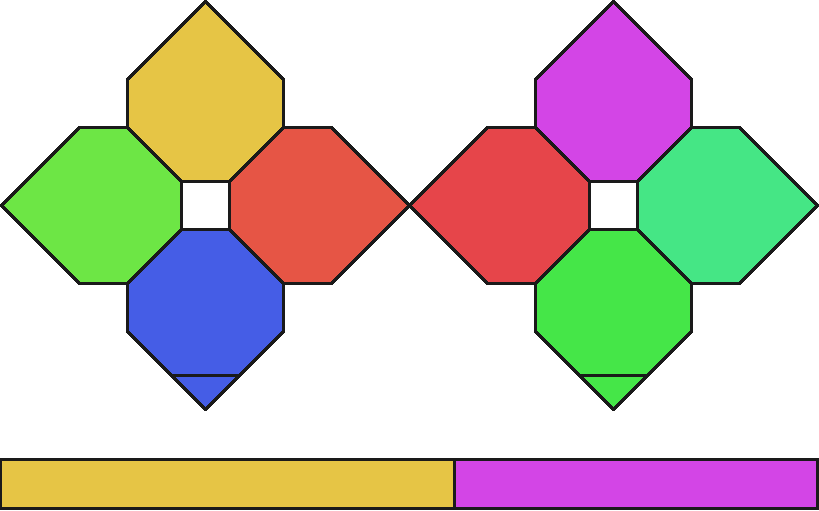
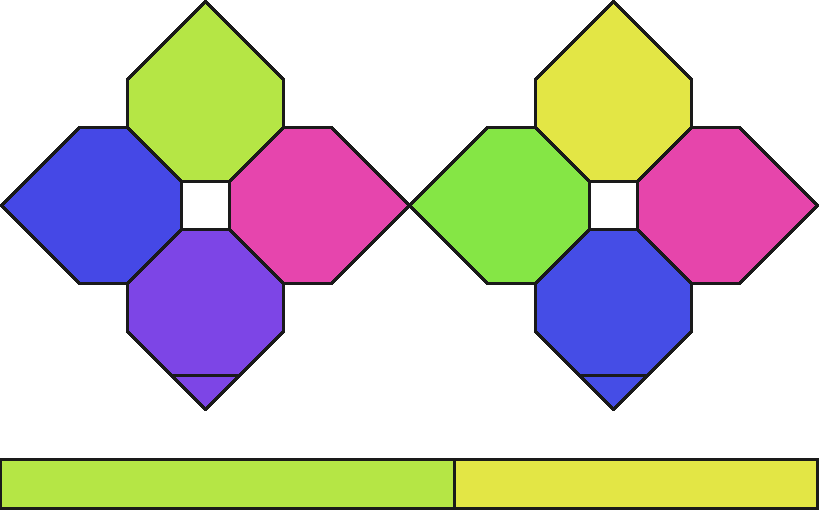
Fixed a lot of bugs

diff --git a/src/main.rs b/src/main.rs
@@ -7,7 +7,6 @@ use little_exif::metadata::Metadata;
 use log::{debug, error, info};
 use moleco::{calculate_scheme, generate_moleco};
 use num::integer::gcd;
-use pretty_env_logger;
 use prettytable::{row, Table};
 use std::fs;
 use std::io::{BufRead, BufReader};
@@ -108,8 +107,8 @@ fn main() {
         } => {
             let picture = generate_moleco(
                 substance.to_string(),
-                base_size.clone(),
-                border_size.clone(),
+                *base_size,
+                *border_size,
                 !skip_version_check,
             );
             match picture {
@@ -143,23 +142,23 @@ fn main() {
                             error!("Only PNG format is supported.");
                             std::process::exit(exitcode::USAGE);
                         }
-                        if file_exists(output_file) && !overwrite {
-                            if !Confirm::new()
+                        if file_exists(output_file)
+                            && !overwrite
+                            && !Confirm::new()
                                 .with_prompt(format!(
                                     "File \"{}\" already exists, overwrite?",
                                     output_file
                                 ))
                                 .interact()
                                 .unwrap()
-                            {
-                                std::process::exit(exitcode::OK);
-                            }
+                        {
+                            std::process::exit(exitcode::OK);
                         }
                         buffer.save(output_file).unwrap();
                         let image_path = std::path::Path::new(output_file);
                         let mut metadata = Metadata::new();
                         metadata.set_tag(ExifTag::ImageDescription(substance.to_string()));
-                        metadata.write_to_file(&image_path).unwrap();
+                        metadata.write_to_file(image_path).unwrap();
                         info!("Image saved as {}", output_file);
                     }
                 }
@@ -177,26 +176,21 @@ fn main() {
             skip_errors,
         } => {
             if let Some(path) = output_file {
-                match format {
-                    Format::Table => {
-                        error!("Output file is not supported for table format.");
-                        std::process::exit(exitcode::USAGE);
-                    }
-                    _ => {}
+                if let Format::Table = format {
+                    error!("Output file is not supported for table format.");
+                    std::process::exit(exitcode::USAGE);
                 }
 
-                if file_exists(path) {
-                    if !Confirm::new()
+                if file_exists(path)
+                    && !Confirm::new()
                         .with_prompt(format!("File \"{}\" already exists, overwrite?", path))
                         .interact()
                         .unwrap()
-                    {
-                        std::process::exit(exitcode::OK);
-                    }
+                {
+                    std::process::exit(exitcode::OK);
                 }
             }
-            let mut writer =
-                DataWriter::new(format.clone(), output_file.clone(), skip_errors.clone());
+            let mut writer = DataWriter::new(format.clone(), output_file.clone(), *skip_errors);
             match input_file {
                 Some(path) => {
                     if !file_exists(path) {
@@ -283,13 +277,11 @@ impl DataWriter {
 
         if substance.starts_with("InChI=") {
             self.actual_writer.write(substance);
-        } else {
-            if !self.skip_errors {
-                return Err(format!(
+        } else if !self.skip_errors {
+            return Err(format!(
                     "No InChI provided, only payload starting with 'InChI=' is supported for calculation. Error source: {}",
                     substance
                 ));
-            }
         }
         Ok(())
     }
@@ -436,7 +428,7 @@ impl CsvStdoutWriter {
     fn new() -> Self {
         let mut output = csv::Writer::from_writer(std::io::stdout());
         output
-            .write_record(&[
+            .write_record([
                 "Substance",
                 "Primary hue",
                 "First accent hue",
@@ -452,7 +444,7 @@ impl Writer for CsvStdoutWriter {
     fn write(&mut self, substance: String) {
         let palette = calculate_scheme(substance.to_string());
         self.output
-            .write_record(&[
+            .write_record([
                 &substance,
                 &palette.primary.hue.to_string(),
                 &palette.first_accent.hue.to_string(),
@@ -475,7 +467,7 @@ impl CsvFileWriter {
         let file = fs::File::create(path).unwrap();
         let mut output = csv::Writer::from_writer(file);
         output
-            .write_record(&[
+            .write_record([
                 "Substance",
                 "Primary hue",
                 "First accent hue",
@@ -491,7 +483,7 @@ impl Writer for CsvFileWriter {
     fn write(&mut self, substance: String) {
         let palette = calculate_scheme(substance.to_string());
         self.output
-            .write_record(&[
+            .write_record([
                 &substance,
                 &palette.primary.hue.to_string(),
                 &palette.first_accent.hue.to_string(),

diff --git a/src/lib.rs b/src/lib.rs
@@ -2,7 +2,7 @@ pub mod layouts;
 pub mod tokenize;
 use crate::layouts::Picture;
 use crate::tokenize::generate_mixture_tree;
-use log::{debug, info};
+use log::{debug, info, warn};
 use num_bigint::BigUint;
 use num_traits::Zero;
 use palette::{FromColor, Hsv, Srgb};
@@ -86,7 +86,15 @@ pub fn generate_moleco(
 
 pub fn calculate_scheme(substance: String) -> Scheme {
     let substance = match substance {
-        s if s.starts_with("InChI=") => s[6..].to_string(),
+        // TODO Test this!!
+        s if s.starts_with("InChI=") => {
+            if s.contains('/') {
+                s.split('/').skip(1).collect::<Vec<&str>>().join("/")
+            } else {
+                warn!("InChI without '/' separator. Seems like malformed input.");
+                s
+            }
+        }
         s => s,
     };
     info!("Substance: {}", substance);
@@ -95,19 +103,33 @@ pub fn calculate_scheme(substance: String) -> Scheme {
     hasher.update(substance);
     let result = hasher.finalize();
     debug!(" -> Raw hash: {:?}", result);
-    let mut sum: BigUint = Zero::zero();
-    for i in result.iter() {
-        sum <<= 8;
-        let step = i.clone() as u64;
-        sum += step;
-    }
-    info!(" -> Substance hash: {}", sum);
+    let mut sums = [
+        BigUint::zero(),
+        BigUint::zero(),
+        BigUint::zero(),
+        BigUint::zero(),
+    ];
 
-    let primary_hue = modulo(&sum, 360);
-    let complementary_hue = primary_hue + 165 + modulo(&sum, 30);
-    let first_accent_hue = primary_hue + modulo(&sum, (complementary_hue - 5) - (primary_hue + 5));
+    // Summing up parts of the hash to get 4 random numbers
+    for part in 0..4 {
+        for i in 0..16 {
+            sums[part] <<= 8;
+            let step = result[part * 16 + i] as u32;
+            sums[part] += step;
+        }
+    }
+
+    info!(
+        " -> Substance hashes: {}, {}, {}, {}",
+        sums[0], sums[1], sums[2], sums[3]
+    );
+
+    let primary_hue = modulo(&sums[0], 360);
+    let complementary_hue = primary_hue + 165 + modulo(&sums[1], 30);
+    let first_accent_hue =
+        primary_hue + modulo(&sums[2], (complementary_hue - 5) - (primary_hue + 5));
     let second_accent_hue =
-        complementary_hue + modulo(&sum, (primary_hue + 355) - (complementary_hue + 5));
+        complementary_hue + modulo(&sums[3], (primary_hue + 355) - (complementary_hue + 5));
 
     // Normalization of hues, as they can go over 360
     let complementary_hue = complementary_hue % 360;

diff --git a/tests/test_moleco.rs b/tests/test_moleco.rs
@@ -7,12 +7,12 @@ use num_traits::One;
 #[test]
 fn test_calculate_scheme() {
     let scheme = calculate_scheme("water".to_string());
-    assert_eq!(scheme.primary.hue, 285);
-    assert_eq!(scheme.first_accent.hue, 90);
-    assert_eq!(scheme.second_accent.hue, 270);
-    assert_eq!(scheme.complementary.hue, 105);
+    assert_eq!(scheme.primary.hue, 133);
+    assert_eq!(scheme.first_accent.hue, 163);
+    assert_eq!(scheme.second_accent.hue, 16);
+    assert_eq!(scheme.complementary.hue, 312);
 
-    let scheme2 = calculate_scheme("InChI=water".to_string());
+    let scheme2 = calculate_scheme("InChI=1S/water".to_string());
     assert_eq!(scheme2.primary.hue, scheme.primary.hue);
     assert_eq!(scheme2.first_accent.hue, scheme.first_accent.hue);
     assert_eq!(scheme2.second_accent.hue, scheme.second_accent.hue);

diff --git a/README.md b/README.md
@@ -4,7 +4,9 @@ Moleco stands for **mole**cule to **co**lor. It generates unique color swatch fo
 
 ## How to run
 
-`moleco generate "InChI=1S/C8H10N4O2/c1-10-4-9-6-5(10)7(13)12(3)8(14)11(6)2/h4H,1-3H3" --print`
+```bash
+moleco generate "InChI=1S/C8H10N4O2/c1-10-4-9-6-5(10)7(13)12(3)8(14)11(6)2/h4H,1-3H3" --print
+```
 
 That will generate a color swatch for caffeine.
 
@@ -13,7 +15,8 @@ That will generate a color swatch for caffeine.
 ## Installation
 
 For now you can only install it with help of [cargo, rust package manager](https://doc.rust-lang.org/cargo/getting-started/installation.html).
-```sh
+
+```bash
 cargo install moleco
 ```
 
@@ -21,14 +24,17 @@ cargo install moleco
 
 Of course in nature there is much more likely to see mixtures instead of single substances, so MInChI is supported as well. You can generate **toothpaste**:
 
-```
+```bash
 moleco generate "MInChI=0.00.1S/C12H26O4S.Na/c1-2-3-4-5-6-7-8-9-10-11-12-16-17(13,14)15;/h2-12H2,1H3,(H,13,14,15);/q;+1/p-1&C3H8O3/c4-1-3(6)2-5/h3-6H,1-2H2&C7H5NO3S.Na/c9-7-5-3-1-2-4-6(5)12(10,11)8-7;/h1-4H,(H,8,9);/q;+1/p-1&Ca.H3O4P.2H2O/c;1-5(2,3)4;;/h;(H3,1,2,3,4);2*1H2/q+2;;;/p-2&FH2O3P.2Na/c1-5(2,3)4;;/h(H2,2,3,4);;/q;2*+1/p-2&H2O/h1H2/n{6&2&&5&3&4&1}/g{215wf-3&25wf-2&1wf-2&8wf-3&2wf-3&5wf-1&15wf-3}" --print
 ```
 
 ![toothpaste](readme/toothpaste.png)
 
+NOTE: Printing may not be supported (well) in all terminals, so results may vary, but saved images will be correct.
+
 or **dishwashing liquid**:
-```
+
+```bash
 moleco generate "MInChI=0.00.1S/C12H26O4S.Na/c1-2-3-4-5-6-7-8-9-10-11-12-16-17(13,14)15;/h2-12H2,1H3,(H,13,14,15);/q;+1/p-1&C18H30O3S.Na/c1-2-3-4-5-6-7-8-9-10-11-12-17-13-15-18(16-14-17)22(19,20)21;/h13-16H,2-12H2,1H3,(H,19,20,21);/q;+1/p-1&ClH.Na/h1H;/q;+1/p-1&H2O/h1H2/n{4&{2&4}&&{1&4}&3}/g{807wf-3&{6pp1&4pp1}117wf-3&1wf-2&{27pp0&73pp0}66wf-3&}" --print
 ```
 
@@ -36,14 +42,15 @@ moleco generate "MInChI=0.00.1S/C12H26O4S.Na/c1-2-3-4-5-6-7-8-9-10-11-12-16-17(1
 
 or solution of **9-Borabicyclo[3.3.1]nonane in undefined amounts of hexanes**:
 
-```
+```bash
 moleco generate "MInChI=0.00.1S/C6H12/c1-6-4-2-3-5-6/h6H,2-5H2,1H3&C6H14/c1-3-5-6-4-2/h3-6H2,1-2H3&C6H14/c1-4-5-6(2)3/h6H,4-5H2,1-3H3&C6H14/c1-4-6(3)5-2/h6H,4-5H2,1-3H3&C8H15B/c1-3-7-5-2-6-8(4-1)9-7/h7-9H,1-6H2/n{5&{2&3&4&1}}/g{4mr-1&{&&&}}" --print
 ```
 
 ![borabicyclononane in hexanes](readme/boarabicyclononaneinhexanes.png)
 
 or, if you are fan, you can generate **bechamel sauce**:
-```
+
+```bash
 moleco generate "MInChI=0.00.1S/C12H17N4OS.ClH/c1-8-11(3-4-17)18-7-16(8)6-10-5-14-9(2)15-12(10)13;/h5,7,17H,3-4,6H2,1-2H3,(H2,13,14,15);1H/q+1;/p-1&C17H20N4O6/c1-7-3-9-10(4-8(7)2)21(5-11(23)14(25)12(24)6-22)15-13(18-9)16(26)20-17(27)19-15/h3-4,11-12,14,22-25H,5-6H2,1-2H3,(H,20,26,27)/t11-,12+,14-/m0/s1&C19H19N7O6/c20-19-25-15-14(17(30)26-19)23-11(8-22-15)7-21-10-3-1-9(2-4-10)16(29)24-12(18(31)32)5-6-13(27)28/h1-4,8,12,21H,5-7H2,(H,24,29)(H,27,28)(H,31,32)(H3,20,22,25,26,30)/t12-/m0/s1&C20H30O/c1-16(8-6-9-17(2)13-15-21)11-12-19-18(3)10-7-14-20(19,4)5/h6,8-9,11-13,21H,7,10,14-15H2,1-5H3/b9-6+,12-11+,16-8+,17-13+&C27H44O/c1-19(2)8-6-9-21(4)25-15-16-26-22(10-7-17-27(25,26)5)12-13-23-18-24(28)14-11-20(23)3/h12-13,19,21,24-26,28H,3,6-11,14-18H2,1-2,4-5H3/b22-12+,23-13-/t21-,24+,25-,26+,27-/m1/s1&C27H46O/c1-18(2)7-6-8-19(3)23-11-12-24-22-10-9-20-17-21(28)13-15-26(20,4)25(22)14-16-27(23,24)5/h9,18-19,21-25,28H,6-8,10-17H2,1-5H3/t19-,21+,22+,23-,24+,25+,26+,27-/m1/s1&C6H5NO2/c8-6(9)5-2-1-3-7-4-5/h1-4H,(H,8,9)&C8H10NO6P/c1-5-8(11)7(3-10)6(2-9-5)4-15-16(12,13)14/h2-3,11H,4H2,1H3,(H2,12,13,14)&C9H17NO5/c1-9(2,5-11)7(14)8(15)10-4-3-6(12)13/h7,11,14H,3-5H2,1-2H3,(H,10,15)(H,12,13)/t7-/m0/s1&Ca/q+2&Na/q+1/n{{{{&}&6&11&&4}&{{&}&&&1&2&7&9&8&3&}}&{{&}&6&11&&&4&5&10}}/g{{{{56wf-2&25wf-3}8wf-1&3wf-3&1wf-2&125wf-4&}466wf-3&{{56wf-4&168wf-3}725wf-3&187wf-4&137wf-3&447wf-8&215wf-8&6365wf-8&1008wf-8&341wf-8&49wf-8&9wf-3}534wf-3}1pp1&{{6wv-1&2wv-2}2wv-2&8wv-5&48wv-5&48wv-3&36wv-3&&&}9pp1}" --print
 ```
 
@@ -53,7 +60,6 @@ moleco generate "MInChI=0.00.1S/C12H17N4OS.ClH/c1-8-11(3-4-17)18-7-16(8)6-10-5-1
 
 First of all - values at mixture bar (at the bottom for mixtures) are on **logharitmic** scale. This may be problematic, since if you consider two solutions of ethanol, one 40% and second 70% - its hard to see what is what:
 
-
 ![ethanol 40%](readme/ethanolwater4060.png)
 
 ![ethanol 70%](readme/ethanolwater7030.png)
@@ -61,7 +67,6 @@ First of all - values at mixture bar (at the bottom for mixtures) are on **logha
 Not really a difference.
 
 But that was not the goal - the goal was to quickly differ between solutions with small amounts of potentially harmful chemicals. Consider again solution of ethanol - one 40% in water, second 40% of ethanol and 0.1% of bitrex (denatonium benzoate) in water.
-
 
 ![ethanol 40%](readme/ethanolwater4060.png)
 
@@ -87,9 +92,9 @@ moleco generate "MInChI=0.00.1S/CH2O/c1-2/h1H2&H2O/h1H2/n{1&2}/g{37wf-2&}" --pri
 
 ![37% formaldehyde in water](readme/formaldehydewater.png)
 
-It is easy to calculate remaining amount of water (not in molar sense, but since sizes are logarithmic, it does not matter) - it is 63%. But what if there are two solvants like water and methanol without giving their concentrations - then it is possible to estimate remaining amount, but not exact amount of each solvent. In such case the remaining compound is marked as **unknown**.
+ is easy to calculate remaining amount of water (not precisely, not in molar sense, but since sizes are logarithmic we can skip small uncertainties) - it is ~63%. But what if there are two solvants like water and methanol without giving their concentrations - then it is possible to estimate remaining amount, but not exact amount of each solvent. In such case the remaining compound is marked as **unknown**.
 
-```
+```bash
 moleco generate "MInChI=0.00.1S/CH2O/c1-2/h1H2&CH4O/c1-2/h2H,1H3 &H2O/h1H2/n{1&3&2}/g{37wf-2&&}" --print
 ```
 
@@ -97,15 +102,15 @@ moleco generate "MInChI=0.00.1S/CH2O/c1-2/h1H2&CH4O/c1-2/h2H,1H3 &H2O/h1H2/n{1&3
 
 Furthermore, if you use **ratio** (`VP`) in notation and you wont pass concentration of **at least one** ingredient, then the remaining amount is marked as **unestimated**.
 
-```
+```bash
 moleco generate "MInChI=0.00.1S/CH2O/c1-2/h1H2&H2O/h1H2/n{1&2}/g{37vp0&}" --print
 ```
 
 ![37% formaldehyde in water unestimated](readme/formaldehydewater2.png)
 
-Similar is with molar per liter/kilogram notions - `MB` and `MR` - if you use them **at all** the bar will show extra **unestimated** and **unknown** compound. It is becauce moleco is not calculating molar mass and volumes (it doesn't contain any internal database for substances), so it assumes that there is something extra as the result.
+Similar is with molar per liter/kilogram notions - `MB` and `MR` - if you use them **at all** the bar will show extra **unestimated** and **unknown** compound. It is becauce moleco is not calculating molar mass and volumes (it doesn't contain any internal database for substances), so it assumes that there is something extra as the result. You may wonder why its not treated like in case of range notation (see next paragraph) and not left in hands of user - `MB` and `MR` are currently **always wrong** - thats why. If you want to have quick walkaround - simply replace it with `VP` notation, or, take the longer route, and actually convert those notations to other, that is fully supported.
 
-```
+```bash
 moleco generate "MInChI=0.00.1S/CH2O/c1-2/h1H2&H2O/h1H2/n{1&2}/g{37mb0&63mb0}" --print
 ```
 
@@ -114,16 +119,18 @@ moleco generate "MInChI=0.00.1S/CH2O/c1-2/h1H2&H2O/h1H2/n{1&2}/g{37mb0&63mb0}" -
 ### Extra concentration notes
 
 In case of range notation, like "10:20" only higher amount will be taken into account. This is due to fact that moleco is trying to estimate unknown/unestimated substances and if max possible solution is exceeding potential capacity - it is assumed **user knows what he is doing**. If you want to show extra substance, because you know there is some, you can always add it as separate, unmarked substance. See exambles below - second one is showing extra substance because one extra group is added to indexation and concentration notation.
-```
+
+```bash
 moleco generate "MInChI=0.00.1S/C2H6O/c1-2-3/h3H,2H2,1H3&H2O/h1H2/n{1&2}/g{4vp1&6vp1}" --print-only
 ```
-vs 
+
+vs
+
 ```
 moleco generate "MInChI=0.00.1S/C2H6O/c1-2-3/h3H,2H2,1H3&H2O/h1H2/n{1&2&}/g{4vp1&6vp1&}" --print-only
 ```
 
 results look like
-
 
 ![37% formaldehyde in water](readme/ethanolwater4060.png)
 ![37% formaldehyde in water open bar](readme/ethanolwater4060open.png)
@@ -140,11 +147,11 @@ That would require incorporating some database of substances and their propertie
 
 ### Are there collisions?
 
-TODO
+Yes, a lot. Out of over 117 millions of unique InChI strings that you can fetch from <https://pubchem.ncbi.nlm.nih.gov/> - only more that 80 millions are unique. And those are exact collisions, not including fact, that if given hue in swatch is different only by 1 degree - it is too little to be detected by human eye, even if technically there is no collision. Be warned and if you want to differentiate between two substances with similar swatches - be creative with design.
 
 ### Why no support for InChIKey?
 
-TODO
+Initially idea was to create system that is unique for every substance - and InChIKey already had some confirmed collisions, so it was not considered. Reality was more brutal (see above) but it was too late to include InChIKey.
 
 ### Why the shape?
 
@@ -160,17 +167,17 @@ It may be challenging to recognize the substance based on the color swatch after
 
 ### IhChI and MInChI
 
-  * https://jcheminf.biomedcentral.com/articles/10.1186/s13321-015-0068-4
-  * https://jcheminf.biomedcentral.com/articles/10.1186/s13321-019-0357-4
-  * http://molmatinf.com/minchidemo/
-  * https://github.com/IUPAC/MInChI_demo
+* <https://jcheminf.biomedcentral.com/articles/10.1186/s13321-015-0068-4>
+* <https://jcheminf.biomedcentral.com/articles/10.1186/s13321-019-0357-4>
+* <http://molmatinf.com/minchidemo/>
+* <https://github.com/IUPAC/MInChI_demo>
 
 ### Color spaces
 
-  * https://paletton.com/
-  * https://ericportis.com/posts/2024/okay-color-spaces/
+* <https://paletton.com/>
+* <https://ericportis.com/posts/2024/okay-color-spaces/>
 
 ### PubChem resources
-  * https://pubchem.ncbi.nlm.nih.gov/
-  * https://pubchem.ncbi.nlm.nih.gov/docs/compound-vs-substance
 
+* <https://pubchem.ncbi.nlm.nih.gov/>
+* <https://pubchem.ncbi.nlm.nih.gov/docs/compound-vs-substance>
